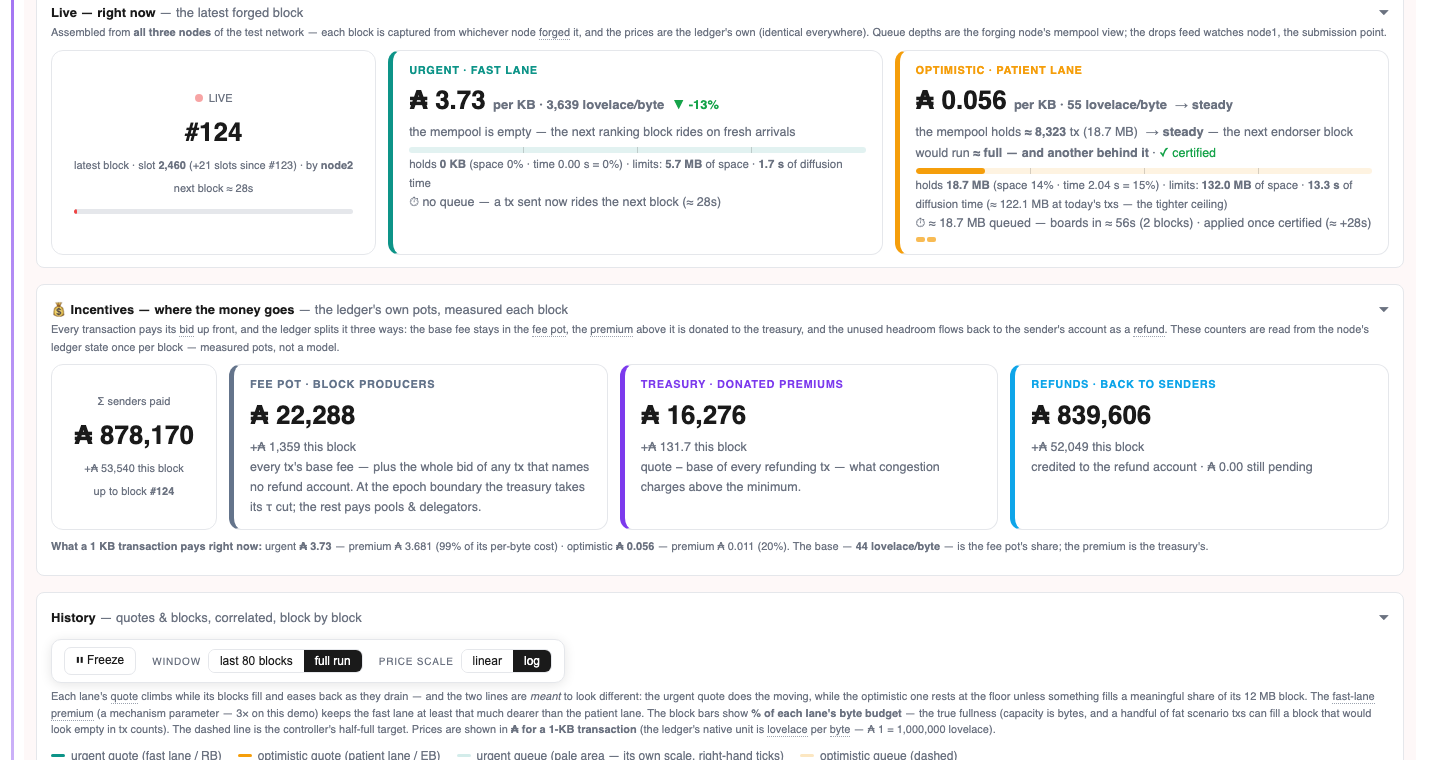
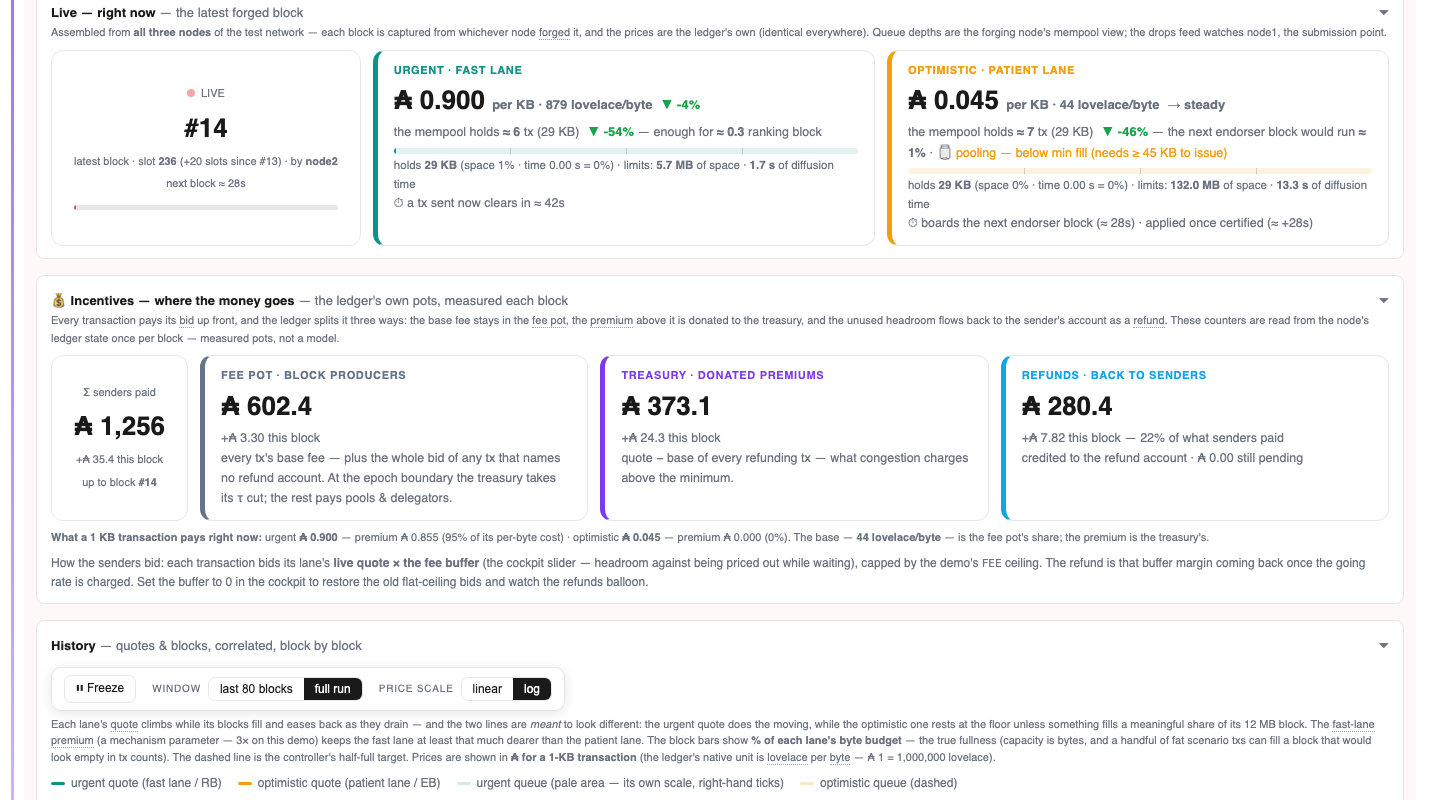
Dashboard: the refunds card measures its share, the notes tell the truth
The refunds card now shows each block's refund as a measured percentage of
what the senders paid, the panel note explains the realistic bids (live
quote x the fee-buffer slider, FEE as a last-resort ceiling, buffer 0 as
the flat-bid escape hatch), and the mechanism's fee-split panel says where
the refund actually comes from. Incentives screenshot refreshed under
realistic bids: the treasury's premiums now outweigh the refunds.

diff --git a/demo/index.html b/demo/index.html
@@ -746,7 +746,9 @@ details.subsec > *:not(summary):last-child{margin-bottom:12px}
         is donated to the <strong>treasury</strong>: scarcity revenue funds the commons instead of inflating one
         block producer's luck.</div>
       <div>↩️ <strong>Refund</strong> — bid − quote, the unused headroom — is credited back to the transaction's
-        <strong>refund account</strong> after the block. The bid is a ceiling, not a price.</div>
+        <strong>refund account</strong> after the block. The bid is a ceiling, not a price: this demo's senders bid the
+        live quote × their <span data-term="fee buffer">fee buffer</span> (a cockpit slider), so the refund is exactly
+        the buffer margin.</div>
     </div>
     <p class="hint" style="margin-top:8px">The catch worth knowing: the split only runs for a transaction that <em>names</em>
       a refund account (a registered staking account — this demo uses one of the devnet's genesis delegators). A transaction
@@ -942,10 +944,10 @@ details.subsec > *:not(summary):last-child{margin-bottom:12px}
       ledger state once per block — measured pots, not a model.</p>
       <div class="nowgrid" id="incgrid" style="grid-template-columns:auto 1fr 1fr 1fr"></div>
       <div class="hint" id="inc-quant" style="line-height:1.6;margin-top:8px"></div>
-      <p class="hint" style="font-size:12px;margin:6px 0 0">Why refunds dwarf the pots here: every simulated sender bids a flat,
-      deliberately generous ceiling (the demo's <code>FEE</code>, 10 ₳) so a rising quote never evicts a chained transaction —
-      while most traffic rides the patient lane near the floor. A real sender would bid just above the quote and get a small
-      refund; the split itself is the mechanism working as designed.</p>
+      <p class="hint" style="font-size:12px;margin:6px 0 0">How the senders bid: each transaction bids its lane's
+      <strong>live quote × the fee buffer</strong> (the cockpit slider — headroom against being priced out while waiting),
+      capped by the demo's <code>FEE</code> ceiling. The refund is that buffer margin coming back once the going rate is
+      charged. Set the buffer to 0 in the cockpit to restore the old flat-ceiling bids and watch the refunds balloon.</p>
     </details>
 
   <details class="panel" id="pane-history" open>
@@ -3303,7 +3305,9 @@ details.subsec > *:not(summary):last-child{margin-bottom:12px}
       setI("inc-upto", `up to block <strong>#${b.i}</strong>`);
       setI("inc-fees", adaPot(b.fees));           setI("inc-fees-d", plus(delta("fees")));
       setI("inc-don", adaPot(b.donation));        setI("inc-don-d", plus(delta("donation")));
-      setI("inc-ref", adaPot(b.refundsDelivered)); setI("inc-ref-d", plus(delta("refundsDelivered")));
+      const refD = delta("refundsDelivered");
+      const refShare = refD != null && paidD > 0 ? ` — ${Math.round(refD / paidD * 100)}% of what senders paid` : "";
+      setI("inc-ref", adaPot(b.refundsDelivered)); setI("inc-ref-d", refD != null ? `+${adaPot(refD)} this block${refShare}` : "");
       setI("inc-ref-pending", `credited to the refund account · ${adaPot(b.pendingRefunds)} still pending`);
     }
     // What a 1 KB transaction pays right now — derived from the newest block's